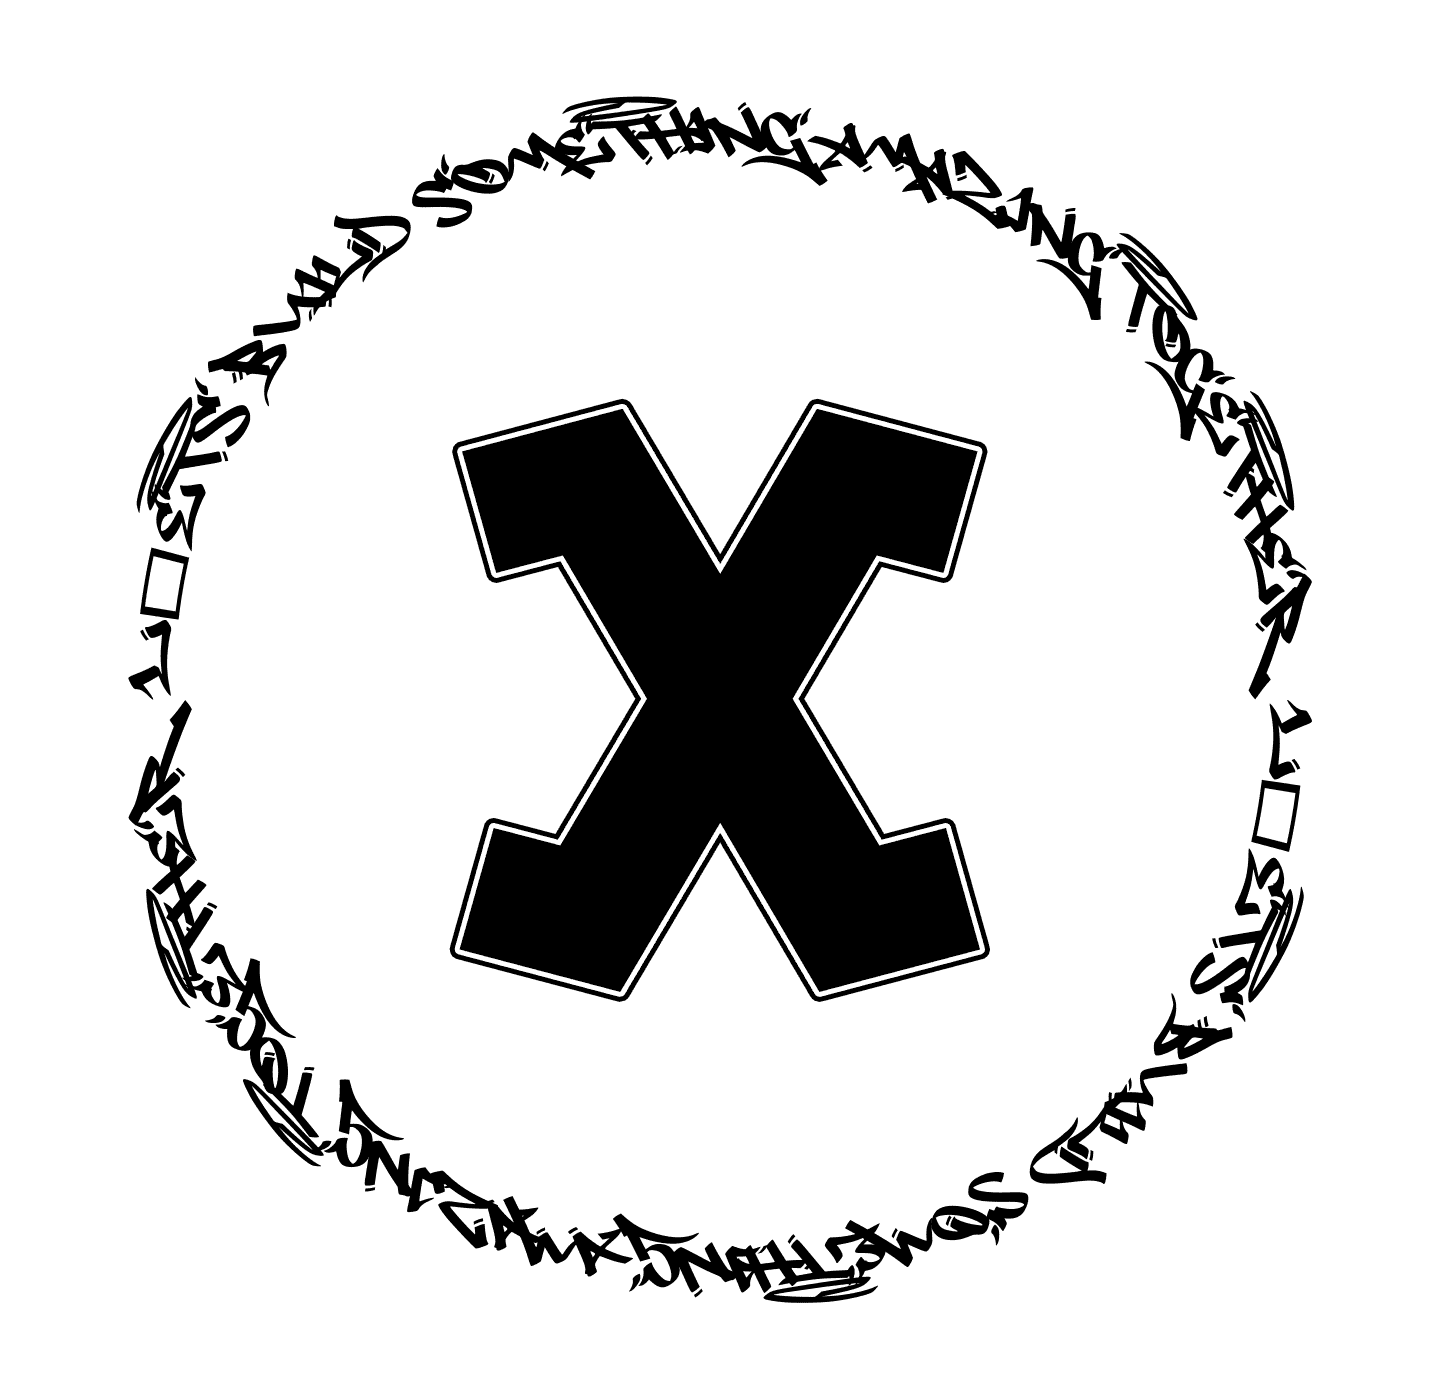
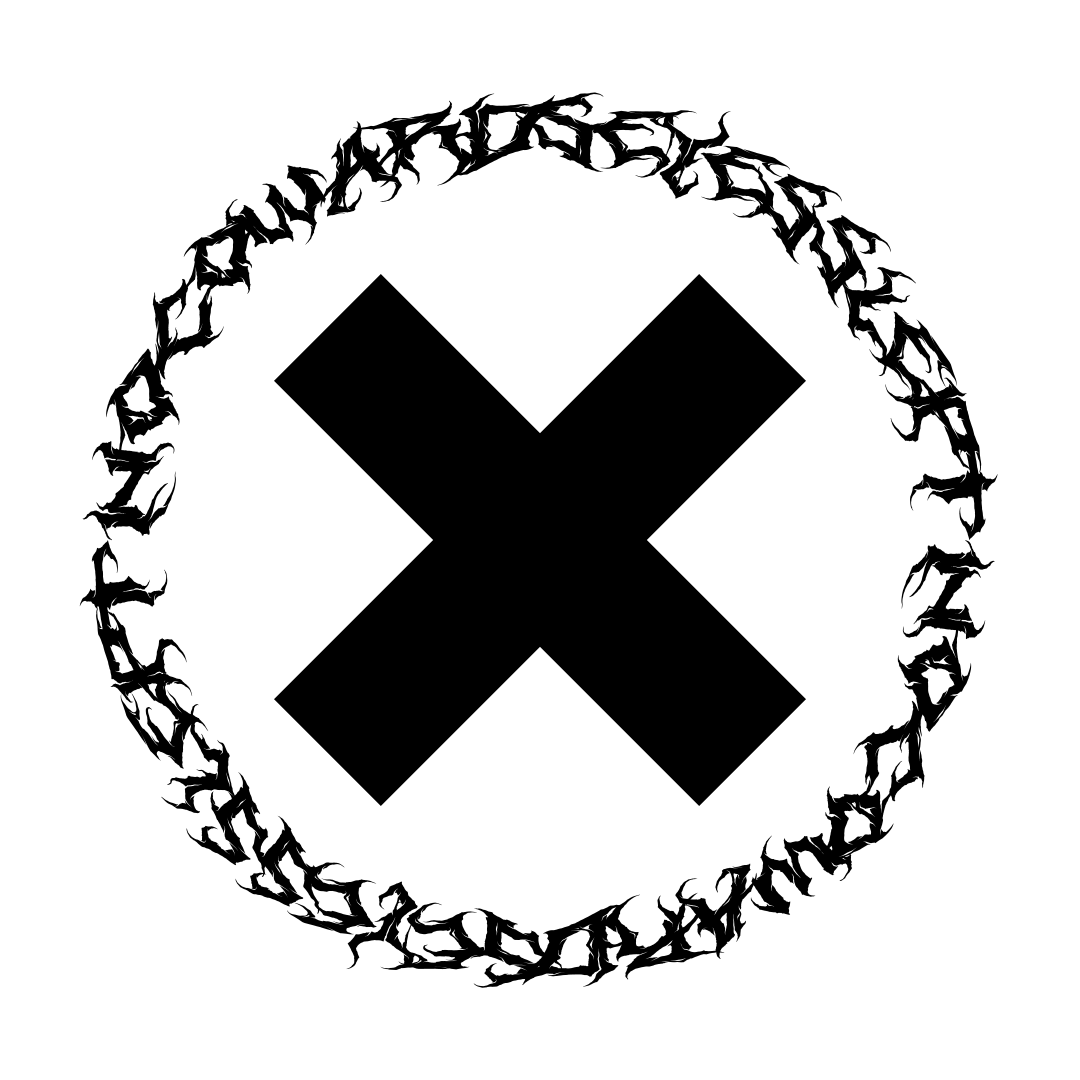
Add files via upload

Changed region(s): [[0.0611, 0.0611, 0.9167, 0.9472], [0.2444, 0.2444, 0.7639, 0.7639]]

diff --git a/default.css b/default.css
@@ -37,6 +37,11 @@ div, span, section, header, footer, p, a, nav {
 .s-tit {
 	padding: 0.3em 0;
 }
+@font-face {
+	font-family: 'Old London';
+	src: url('OldLondon.ttf') format('ttf'),
+	     url('Olondona.otf') format('otf'),
+  }
 .main-copy-wrap {
 	font-weight: 100;
 	color: #000000;
